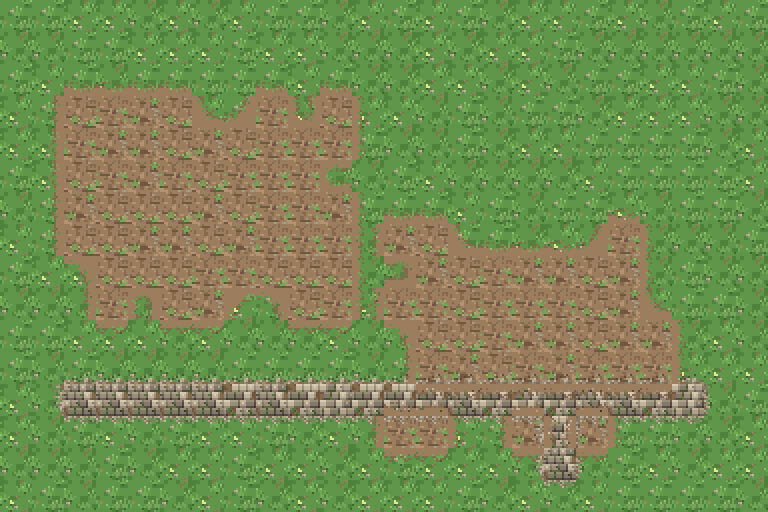
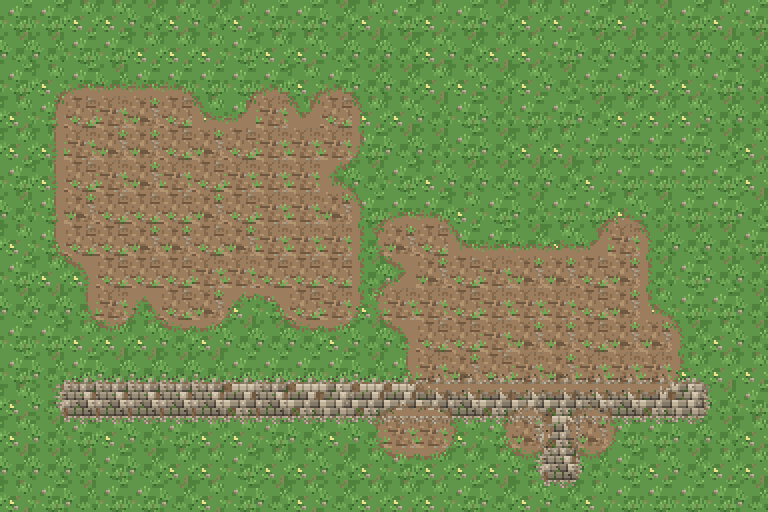
경계 규칙을 새로 적고 미리보기를 다시 뽑는다
이웃 넷이 아니라 아홉 칸으로 잰다는 것, 모양을 식이 아니라 재서 얻는다는
것, 한 도트가 1픽셀이라는 것 — 다음에 손댈 때 이 셋을 모르면 또 방향마다
한 장씩 붙이게 된다.

Claude-Session: https://claude.ai/code/session_01MD13E75HPivDdRkjb6eaTR

diff --git a/game/assets/ref/README.md b/game/assets/ref/README.md
@@ -25,17 +25,29 @@
 `sprites/` 에 들어간다. 돌릴 때마다 지난 제안본을 먼저 지운다 — 안 그러면
 미리보기가 옛 그림을 집어 쓴다.
 
-**경계는 방향이 아니라 이웃 꼴로 그린다.** 이웃 넷 중 어디가 딴 쪽인지를
-비트로 모아(1=북 2=남 4=서 8=동) 열다섯 가지 중 한 장을 얹는다. 그 한 장은
-한 점마다 딱 둘만 재서 그린다 — 경계에서 들어간 **거리 s**, 그 자리에서
-딴 쪽을 가리키는 **방향 n**. 층은 s로 쌓고 벽이 보이는지는 n으로 정하니
-곧은 변이든 호든 같은 자로 그려지고, 꺾이는 자리는 둥글게 돌아 나간다.
+**경계는 방향이 아니라 이웃 아홉 칸의 꼴로 그린다.** 여덟 이웃 중 어디가
+딴 쪽인지를 비트로 모으면(1=북 2=남 4=서 8=동 16=북서 32=북동 64=남서
+128=남동) 256가지가 나오고, 그 값이 곧 아틀라스의 칸 번호다 (0번은 빈칸).
 
-| 이름 | 얹는 칸 | 무엇 |
+넷만 봐서는 안 된다 — 볼록한 귀퉁이에서 땅 칸은 제 모서리를 깎아 물을
+들이는데 옆 물 칸은 물가가 아직 타일 변에 있는 줄 알아서, 같은 자리를
+둘이 다르게 그려 여울 띠가 모서리마다 어긋났다. 아홉 칸을 보면 이웃한
+두 칸이 겹치는 창을 보므로 경계를 똑같이 잰다.
+
+모양은 식이 아니라 **재서** 얻는다. 창을 덮개(0/1)로 깔고 뭉갠 뒤 0.5에서
+자르면 볼록·오목이 한꺼번에 둥글려지고, 거기서 부호 거리를 재면 한 점마다
+둘이 나온다 — 경계에서 들어간 **거리 s**, 딴 쪽을 가리키는 **방향 n**.
+층은 s로 쌓고 벽이 보이는지는 n으로 정한다. 곧은 변·귀퉁이·곶·섬·물목이
+전부 같은 자로 그려져 예외가 없다.
+
+| 아틀라스 | 얹는 칸 | 무엇 |
 | --- | --- | --- |
-| `shore_m*` / `shoal_m*` | 뭍 / 물 | 연못·강. 둑이 서고 남쪽을 보는 면에만 돌벽 |
-| `beach_m*` / `surf_m*` | 모래 / 물 | 바다. 벽 없이 모래가 기울어 들고 거품이 민다 |
-| `dune_m*` / `trod_m*` | 잔디 | 모래·마당 흙이 풀밭으로 흘러든다 |
+| `edge_shore` / `edge_shoal` | 뭍 / 물 | 연못·강. 둑이 서고 남쪽을 보는 면에만 돌벽 |
+| `edge_beach` / `edge_surf` | 모래 / 물 | 바다. 벽 없이 모래가 기울어 들고 거품이 민다 |
+| `edge_dune` / `edge_trod` | 잔디 | 모래·마당 흙이 풀밭으로 흘러든다 |
+
+한 칸은 **한 도트에 1픽셀**(16x16)이다 — 화면에서 어차피 두 배로 늘려
+그리므로(필터 nearest) 4배로 부풀린 것과 결과가 같고, 256칸이 한 장에 든다.
 
 `water_<깊이 0~7>_<판 0~2>_<장 0~1>` — 깊이는 뭍에서 몇 걸음인지(main.gd의
 `rebuild_water_levels`)로 고른다. 한 단이 0.42톤이라 계단이 안 보인다.
